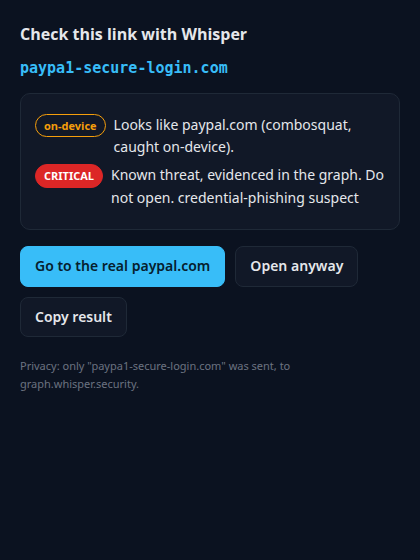
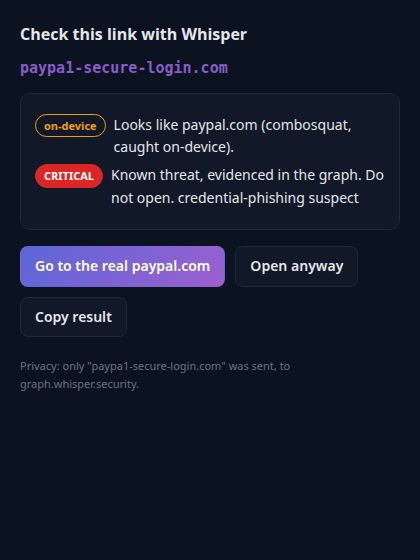
fix(brand): use the brand accent on the pre-click check page
The pre-click check page still tinted the hostname and the primary
button with the old sky-blue accent left over from the invented
identity. Switch both to the theme tokens (the Whisper violet accent
and the brand gradient) so every surface reads as one brand. The
four-ring toolbar mark itself already shipped in 2.1.0. Regenerated the
two pre-click gallery captures.

Refs #8

Changed region(s): [[0.031, 0.425, 0.5571, 0.5161], [0.031, 0.0911, 0.5571, 0.1518]]

diff --git a/src/pages/check-link.css b/src/pages/check-link.css
@@ -18,7 +18,7 @@ h1 { font-size: 16px; margin: 0 0 10px; }
   font: 600 15px/1.4 ui-monospace, monospace;
   word-break: break-all;
   margin-bottom: 14px;
-  color: #38bdf8;
+  color: var(--w-accent);
 }
 
 .card {
@@ -63,7 +63,7 @@ h1 { font-size: 16px; margin: 0 0 10px; }
   text-decoration: none;
 }
 .btn:hover { border-color: #6b7280; }
-.btn.primary { background: #38bdf8; border-color: #38bdf8; color: #06202e; }
+.btn.primary { background: var(--w-gradient); border-color: transparent; color: #fff; }
 
 .privacy { font-size: 11px; color: #6b7280; margin-top: 20px; }
 